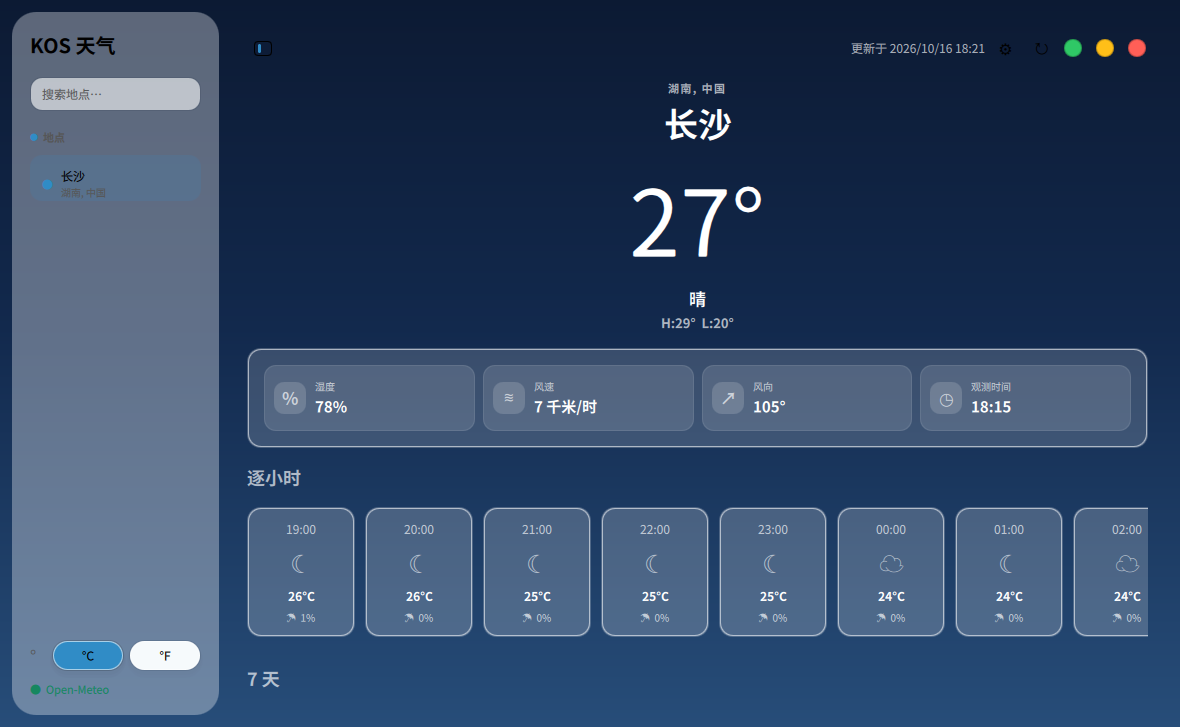
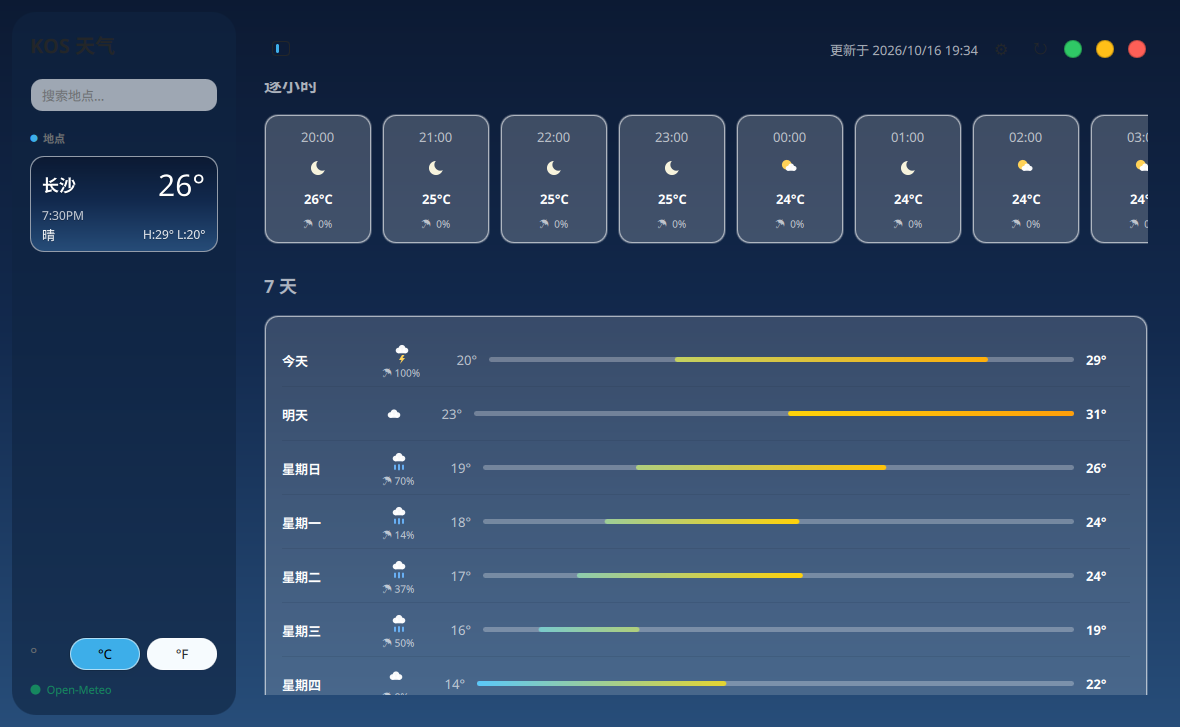
docs: round 1 进度与截图

diff --git a/docs/ui-weather/LEDGER.md b/docs/ui-weather/LEDGER.md
@@ -4,6 +4,8 @@
 参考实测色（814×498 主图采样）：天空 `#2961a7→#1469bc→#538ec9`（上→下，含云照片）；Conditions 卡 `#0057b2`；hero 文本 `#ffffff`；10天条渐变 青→黄→橙。
 
 ## 已改
+- **彩色天气图标落地**（本轮，前端）：新建 `apps/weather/qml/WeatherIcon.qml`（24×24 逻辑坐标 Canvas：黄日 `#ffd257` 带 8 根光线、奶油月 `#f7f3dc` 月牙、白云、蓝雨线 `#6cb8ff`、雪点、闪电，按 weatherCode 分派）；`apps/weather/CMakeLists.txt:18` 加入 QML_FILES；`Main.qml` 逐小时卡图标 Label（font 25px 字符）→ 26×26 WeatherIcon，10 天行图标 Label（22px 字符）→ 24×24 WeatherIcon（isDay:true）；无引用的 `conditionSymbol()` 已删。实测：夜晴渲染奶油月牙、雷暴/雨渲染云+闪电/蓝雨滴，截图确认。
+- **hero 温度占屏比**（本轮，前端）：`Main.qml:676` `font.pixelSize` 92→160。实测截图温度字高 114px / 窗高 727 = **15.7%**（Pillow 量参考图 80px/498 = **16.1%**），对齐。
 - **阶段二后端：每城市 summary**（本轮，全链路）：`services/data-service/weather.go` —— `WeatherLocation.Summary *WeatherLocationSummary`（time/temperature/weatherCode/isDay/tempHigh/tempLow，:46-58）；`OpenMeteoProvider.Summaries`（:403-472，一次批量多坐标请求 current+daily[0]，数组/单对象双解析、按请求序匹配±0.1°校验、≤20 城）；`Summaries` 进 `WeatherProvider` 接口（:110，fixture 可替换）；`fetchWeather` 成功后才拉 summary，失败保留旧值，选中城市的 summary 直接取自 forecast（:676-700）。schema `weather-v1.schema.json` location 加 optional `summary`（未升版本）。Go 测试 ×3（批量解析/单对象/持久化往返）。
 - `shared/qml/foundation/KosSidebar.qml:11,27`：新增 `surfaceColor` 属性（默认不变）。
 - `apps/weather/qml/Main.qml`：侧栏城市卡重做 —— 每城一张 96px 圆角 14 卡：城市名 17px DemiBold + 右上 30px Light 大温度 + 次行当地时间 `7:30PM`（无 summary 回退地区名）+ 底行条件文字与 `H:..° L:..°`；卡背景按该城 summary 的 weatherCode+isDay 走 `skyStopsFor` 天空渐变（`skyPalette` 更名，:19-21）；选中白边 0.55/未选 0.18；文字白 + 微阴影；无 summary 时温度显示 `—`。侧栏面改深海军蓝玻璃 `#0e2340@62%`（透出天空）。
@@ -15,13 +17,12 @@
 - `shared/qml/foundation/KosApplicationWindow.qml:20`：按用户裁定，`windowCornerRadius` 32→8。注意这是共享组件，其他 modernDesign 应用窗口圆角同步变为 8px。
 
 ## 仍差（按视觉冲击排序）
-1. 天气/小时图标仍是文本字符（☀☁🌙）—— 参考是彩色绘制图标（黄日/白云/蓝雨），日间符号偏黄 `#ffd257` 系。
-2. hero 温度占屏比仍小于参考（参考约屏高 1/5；现在 92px ≈ 1/8）。
-3. 侧栏卡细节：参考卡里城市名字重更粗、卡间距/圆角接近但卡内字号可再压一档；"● 地点"小标题与搜索框形态和参考不符（参考是圆角胶囊搜索框、无小标题）。
-4. 天空是纯渐变，参考为带云照片质感 —— 渐变近似已接受，若要求更高需程序化云纹理。
-5. 顶部工具栏（更新时间/设置/刷新位置形态）与参考右上搜索框布局不符。
-6. Conditions 卡无温度走势曲线。
-7. 缺卡片：空气质量 / 风罗盘 / 月相 / 日落 / UV —— 受后端字段限制，见"外推待确认"。
+1. 侧栏卡细节：参考卡里城市名字重更粗、卡间距/圆角接近但卡内字号可再压一档；"● 地点"小标题与搜索框形态和参考不符（参考是圆角胶囊搜索框、无小标题）。
+2. 天空是纯渐变，参考为带云照片质感 —— 渐变近似已接受，若要求更高需程序化云纹理。
+3. 顶部工具栏（更新时间/设置/刷新位置形态）与参考右上搜索框布局不符。
+4. Conditions 卡无温度走势曲线。
+5. WeatherIcon code 1/2 夜间也画太阳+云（drawSun 不分昼夜），夜间应画月+云。
+6. 缺卡片：空气质量 / 风罗盘 / 月相 / 日落 / UV —— 受后端字段限制，见"外推待确认"。
 
 ## 外推待确认
 - summary 字段形态（tempHigh/tempLow 命名、无 summary 时卡的 `—` 回退）为本轮外推，无参考约束；如要改字段名需同步 Go/schema/QML 三处。
@@ -32,3 +33,8 @@
 - 深色模式的天空背景取值（参考图只有浅色）：现用深夜蓝 `#0c1a33→#274d79`。
 - 夜间玻璃卡 fill 0.16 是否太透（实测 21:00 夜空下卡片略发灰蓝）。
 - hover / 选中 / 按下的具体取值（参考图都是静态态）。
+
+## 遗留物（可直接利用，非垃圾）
+- `apps/weather/qml/WeatherIcon.qml`（162 行，`Canvas` 手绘的 Apple 风格天气图标，
+  24×24 逻辑坐标空间、按控件尺寸缩放）：由上一轮在被中断前创建，**目前还没被任何地方引用**。
+  它正对应"仍差"第 1 项（图标仍是文本字符），本轮可直接接入 `Main.qml` 的图标位或按需重写。
